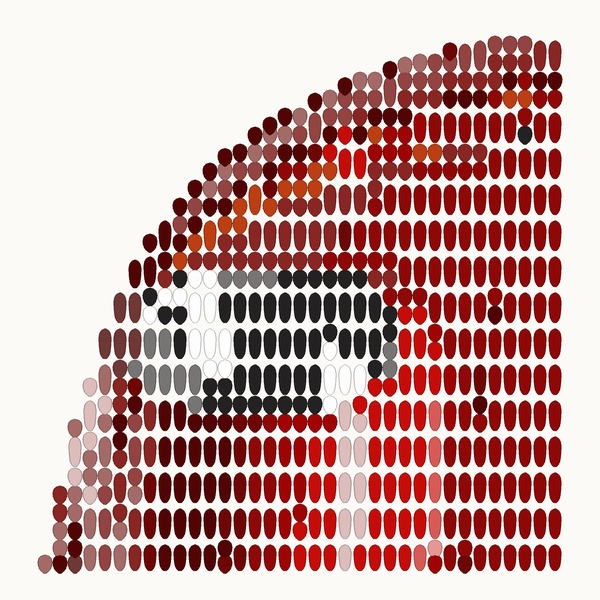
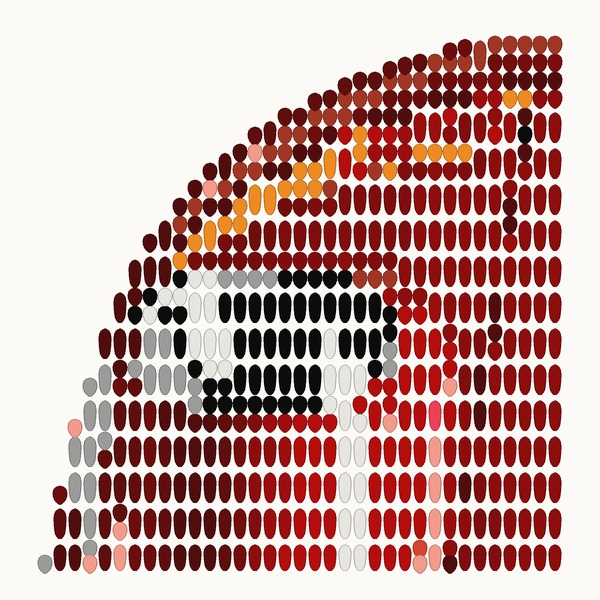
The headlight in the owner's named jars; its orange by Jar 6
The owner, 2026-11-23, the night: "random colours … we have this porsche and all my
colours are named"; "better rename Indicator to Jar 6 — else in the bear it will be
Indicator too". headlight-nib-20 in the red classic's 19 jars by their physical
hexes; the picture's orange, nearer Jar 13 by colour alone, painted by Jar 6 (led.py's
orange jar, hue over 45°), first in Layer 2 by its canon.

diff --git a/app/test/goghplan.test.js b/app/test/goghplan.test.js
@@ -418,9 +418,13 @@ test('the headlight for the nib: every dab a stamp, the stamps\' way 4.2 (seedJ3
   assert.ok(pic.jars.every(j => j.stamp) && pic.dab.seed === 6 && pic.dab.seedJ3 === 2 && pic.preset.run === -1);
   const P = passesV(pic, { gap: pic.preset.gap, run: pic.preset.run }), runs = dabRunsOf(P);
   assert.ok(runs.every(r => r.beyond === false), 'stamps');
-  assert.ok(P.some(q => q.layer === 2) && P.filter(q => q.layer === 2).every(q => pic.jars.find(j => j.id === q.pencil).cells.every(c => c.legs.every(([, a, b]) => isSeed(a, b, { seed: 6, gap: 0.2 })))), 'Layer 2 stamps alone');
+  const jar = q => pic.jars.find(j => j.id === q.pencil), two = P.filter(q => q.layer === 2);
+  assert.equal(jar(two[0]).name, 'Jar 6', 'Jar 6, the orange, first in Layer 2 (its canon)');
+  assert.ok(two.slice(1).every(q => jar(q).cells.every(c => c.legs.every(([, a, b]) => isSeed(a, b, { seed: 6, gap: 0.2 })))), 'then the extremes\' stamps alone');
+  const own = ['Jar 1', 'Jar 5', 'Jar 6', 'Jar 7', 'Jar 10', 'Jar 13', 'Jar 22', 'Jar 23', 'Jar 27', 'Jar 29', 'Jar 30', 'Jar 31', 'Jar 32', 'Jar 34', 'Jar 35', 'Jar 36', 'Jar 38', 'Jar 43', 'Black'];
+  assert.ok(pic.jars.every(j => own.includes(j.name)), 'his named jars of the red classic alone');
   const R = rowsOf(pic, P, R3.every, FORMG.lap, false, { slack: R3.slack, j3: R3.j3, brush: dabRunsOf });
   const ways = R.ps.map(g => +Math.hypot(g[0].b.x - g[0].a.x, g[0].b.y - g[0].a.y).toFixed(2));
-  assert.ok(ways.filter(w => Math.abs(w - 4.2) < 1e-6).length >= 200, 'the stamps 4.2 mm');
+  assert.ok(ways.filter(w => Math.abs(w - 4.2) < 1e-6).length >= 180, 'the stamps 4.2 mm');
   assert.ok(Math.max(...ways) <= 10.01, `a leg at most 12 − 2 at RUN 10: ${Math.max(...ways)}`);
 });

diff --git a/GOGH/generator/led.py b/GOGH/generator/led.py
@@ -8,7 +8,7 @@
 # darkest. Properly as Layer 2. Then the wet on wet is solved too"): with NEAR a cell whose halves' jars lie nearer than it a leg, a fill's
 # near shades not cut into seeds; with `ext` the seeds of the EXT lightest and the EXT darkest jars a line of their own each,
 # `late`, Layer 2, on the dry first layer — the darks first, the lightest the very last; the legs, and every other seed, Layer 1, light to dark as before.
-#   python3 led.py sketch.json picture.png out.json [side mm] [pitch mm] [id] [title] [edges] [unit mm] [ext] [near ΔE]
+#   python3 led.py sketch.json picture.png out.json [side mm] [pitch mm] [id] [title] [edges] [unit mm] [ext] [near ΔE] [orange jar's name]
 import json, sys, numpy as np
 from PIL import Image, ImageDraw
 sk = json.load(open(sys.argv[1])); im0 = Image.open(sys.argv[2]).convert('RGB'); OUT = sys.argv[3]
@@ -16,6 +16,8 @@ SIDE = float(sys.argv[4]) if len(sys.argv) > 4 else 200; PITCH = float(sys.argv[
 ID = sys.argv[6] if len(sys.argv) > 6 else 'led'; TITLE = sys.argv[7] if len(sys.argv) > 7 else ID; EDGES = sys.argv[8] if len(sys.argv) > 8 else 'tl'
 UNIT = float(sys.argv[9]) if len(sys.argv) > 9 else 12; HALF_ = UNIT / 2
 LAYERS = len(sys.argv) > 10 and sys.argv[10] == 'ext'; EXT = 2   # the lightest and the darkest jars, so many each way (est.)
+ORANGE = sys.argv[12] if len(sys.argv) > 12 else ''   # the jar the picture's orange is painted by, its name (the owner's Jar 6): a part a third of it orange its
+# (hue over 45°, chroma over 40, est.) — the photo's indicator darker than his paint, by colour alone nearer a red (2026-11-23, the headlight)
 NEAR = float(sys.argv[11]) if len(sys.argv) > 11 else 0   # CIELAB ΔE76: a cell's halves nearer than it one leg — a fill's near shades not cut into seeds (est.)
 f0 = sk['format'].split('x'); K_ = SIDE / (float(f0[0]) * 10)
 bx = sk['image'].get('box') or [0, 0, im0.width, im0.height]
@@ -41,12 +43,14 @@ pal = np.array([lab(hexrgb(h)) for _, h in cols]); LAST, HIGH = 90, 0.25
 X0, Y0 = sk['left'] * K_, sk['top'] * K_; PW, PH = sk['picture_mm'][0] * K_, sk['picture_mm'][1] * K_
 px = lambda x: (x - X0) / PW * W; py = lambda yt: (yt - Y0) / PH * H
 light = [i for i in range(len(pal)) if pal[i][0] >= LAST]
+ORANGE_K = next((i for i, c in enumerate(cols) if c[0] == ORANGE), None)
 def jar_of(x, a, b):                       # the part's jar: a highlight if a quarter of it is the lightest, else the one most pixels are nearest to
     u0, u1 = max(0, int(px(x - PITCH / 2))), min(W, int(np.ceil(px(x + PITCH / 2)))); v0, v1 = int(py(a)), min(H, int(np.ceil(py(b))))
     q = L[v0:v1, u0:u1][~bg[v0:v1, u0:u1]]
     if not len(q): return None
     cnt = np.bincount(np.argmin(((q[:, None, :] - pal[None]) ** 2).sum(-1), 1), minlength=len(pal))
     if light and cnt[light].sum() >= HIGH * len(q): return max(light, key=lambda i: cnt[i])
+    if ORANGE and ORANGE_K is not None and ((np.degrees(np.arctan2(q[:, 2], q[:, 1])) > 45) & (np.hypot(q[:, 1], q[:, 2]) > 40)).mean() >= 1 / 3: return ORANGE_K
     return int(np.argmax(np.where([i in light for i in range(len(pal))], -1, cnt)))
 def paint_span(x, a, b):                   # where the picture's paint begins and ends on the part's axis
     u0, u1 = max(0, int(px(x - PITCH / 4))), min(W, int(np.ceil(px(x + PITCH / 4)))); v0, v1 = int(py(a)), min(H, int(np.ceil(py(b))))

diff --git a/GOGH/README.md b/GOGH/README.md
@@ -137,6 +137,7 @@ shoulder's 0.6 … 0.7° misses: "I have one more suspect: the brush's thin hand
 | `IMG_3492.jpg` | The nib painting Press test 5's block 1 at RUN 4 (the owner: "somewhere a bug, Claude … old settings do not let the short drops through"): bars ≈ 15 mm for ways of 4 mm. **The cause, the plan's, not the settings**: every dab lifted 8 mm past its end (strokes.js, `SWEEP_TAIL`, `beyond`), the tip ≈ 9 mm on its way down and up for a 4 mm dab — the soft brushes touched only near the bottom, the springy nib all the way. **v.6, `press-stamps-20`**: block 6 alone at its place, its dabs seeds laid as stamps (`stamp`: no lift beyond, the tip landing over the first half of its way and lifting over the last — 4.2 mm at RUN 4), and the card's `preset` (RUN 4, GAP +0.2, BRUSH +0.8, the drop 0.5 · 2) put on the sliders when it is chosen; a seed below RUN 6 its J3 shorter too. |
 | `IMG_3493.jpg`, `IMG_3494.jpg` | v.6 on paper (the owner: "hurrah! victory!!!"): block 6 as stamps, short square-ended dabs, the patch two rows apart; beside Press test 5's blocks of bars. |
 | `IMG_3495.jpg`, `IMG_3496.jpg` | v.6 on the canvas's weave, a ruler under it: the nib's stamp ≈ 4.3 × 6 mm (the first lone one 8), a tooth, its head round; the patch 5 mm apart ≈ 0.7 mm of air between, in places touching (est.). Then: "shall we make a new picture for the headlight test?" — **`headlight-nib-20`**: for-LAB's crop x 300 … 760, y 130 … 590 px (the headlight, the indicator over it, the highlight under, the wing's edge), 178 mm on 20 × 20, in 1 and ½ for the nib — columns 5 mm, 12 mm cells, a leg or two stamps, every dab a stamp, the stamps' J3 2 + 2 (`dab.seedJ3`, the way 4.2), Layer 2 the stamps of C13, C14, C2, C1; preset RUN 10, GAP +0.2, BRUSH +0.8; 538 dabs, ≈ 54 min (est.). |
+| (the headlight's jars) | The owner, of its first colours: "random colours … we have this porsche and all my colours are named" — the red classic's 19 jars after its jar canon (Jar 1, 5, 7, 10, 13, 22, 23, 27, 29 … 36, 38, 43, Black and the orange): `headlight-nib-20` made again in them, by his physical jars' hexes (THE JARS' 🔄 list); the picture's orange, darker than his paint and by colour nearer Jar 13, painted by **Jar 6** wherever a third of a part is orange (hue over 45°, `led.py`'s orange jar), first in Layer 2 by its canon — "better rename Indicator to Jar 6, else in the bear it will be Indicator too". 532 dabs, 23 lines. |
 
 ### The gummy bear's head in 1 and ½, two layers (2026-11-23, the evening)
 

diff --git a/CHANGELOG.md b/CHANGELOG.md
@@ -5,6 +5,9 @@ Machine measurements stay in RUBENS: `../Rubens/CALIBRATION.md`.
 
 ## Unreleased
 
+- **The headlight in the owner's named jars** (2026-11-23, the night; the owner: "random colours … all my colours are named"; "better rename Indicator to
+  Jar 6"). `headlight-nib-20` in the red classic's 19 jars by their physical hexes; the picture's orange by Jar 6, first in Layer 2 (`led.py`'s orange jar).
+
 - **The headlight for the nib** (2026-11-23, the night; the owner, of the stamps: "hurrah! victory!!! … shall we make a new picture for the headlight test?").
   `headlight-nib-20`: for-LAB's headlight enlarged on 20 × 20 (Kuzya's advice), 1 and ½ in stamps, columns 5 mm, two layers, preset; a card's `dab.seedJ3`, its
   stamps' own J3 (the way 4.2). First in GOGH_LIB. `GOGH/IMG_3493` … `3496`, GPS out.
